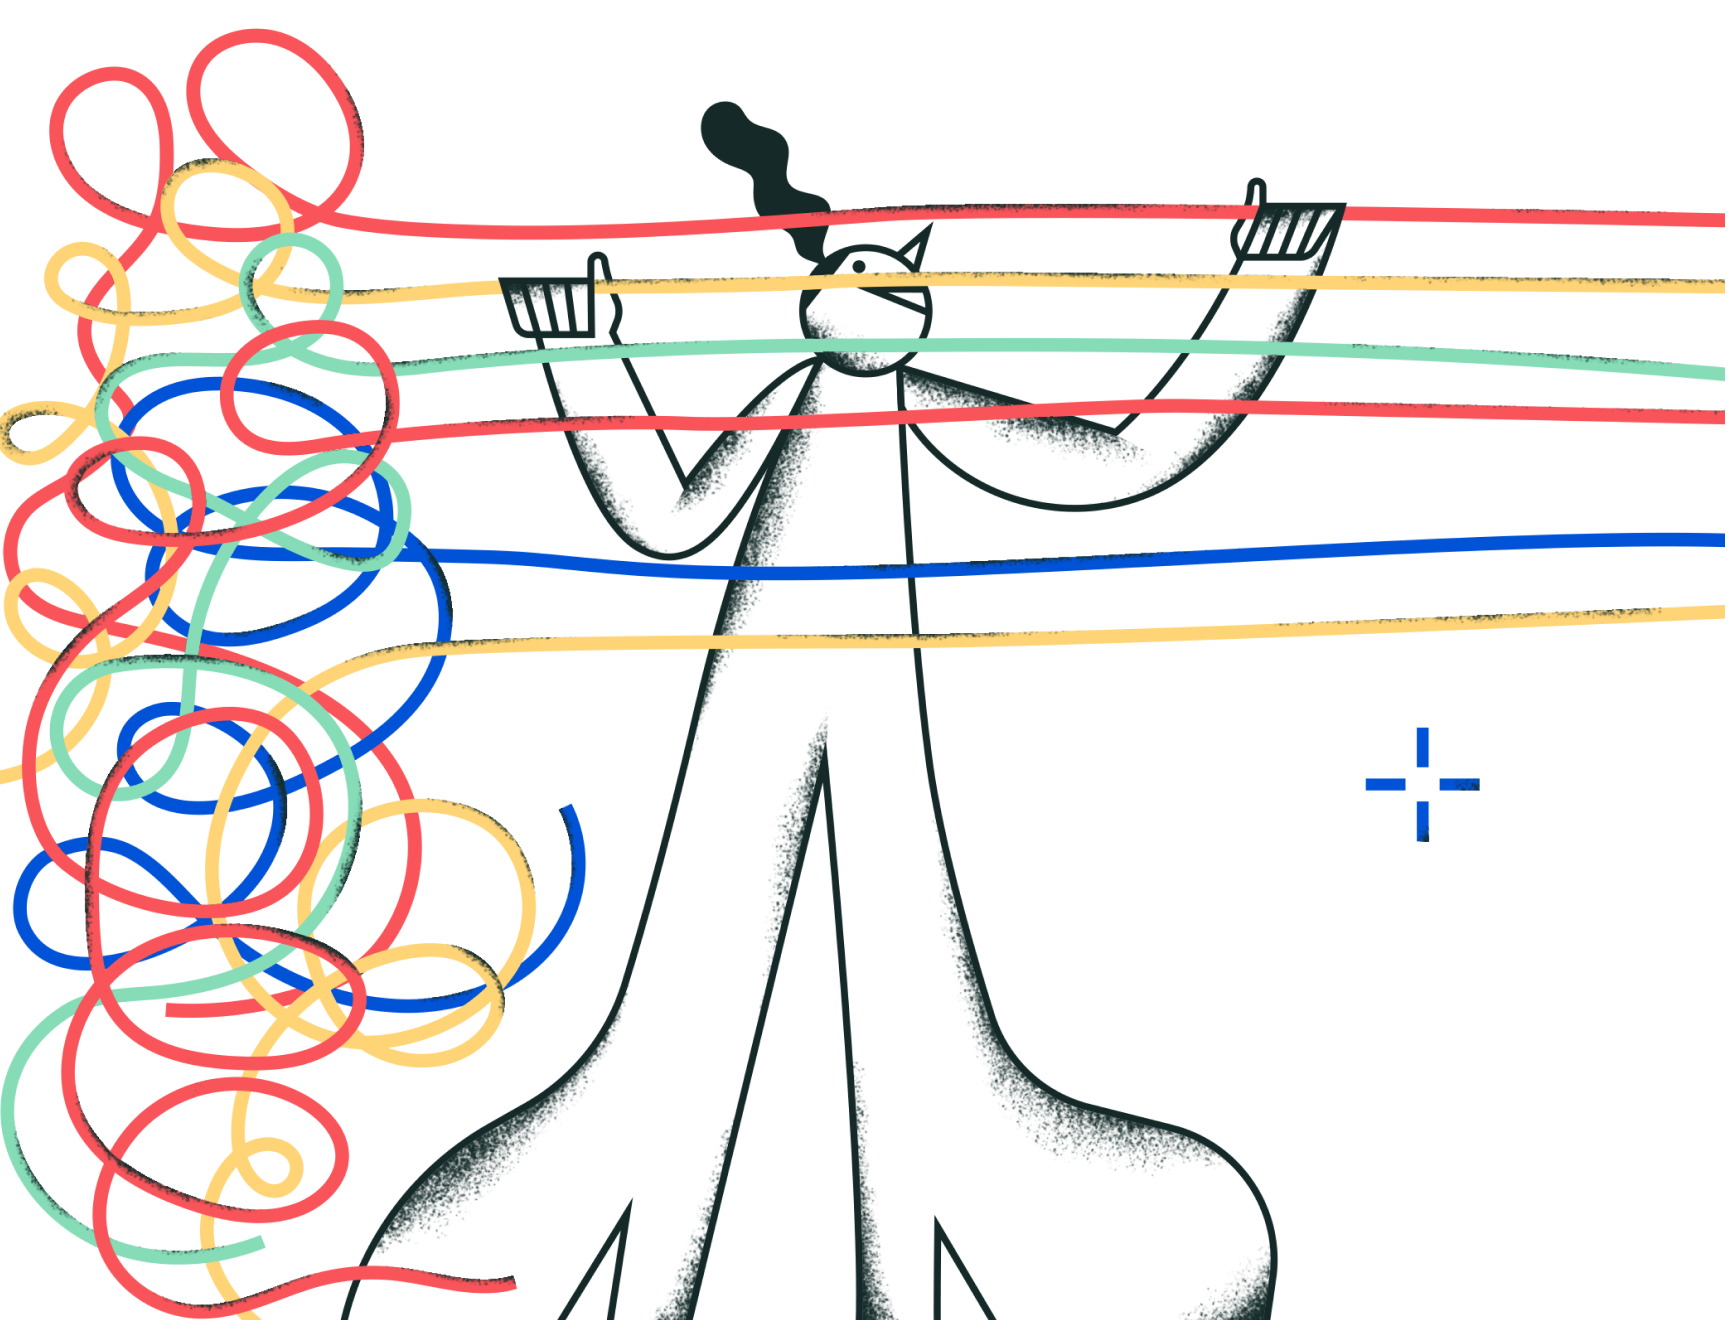
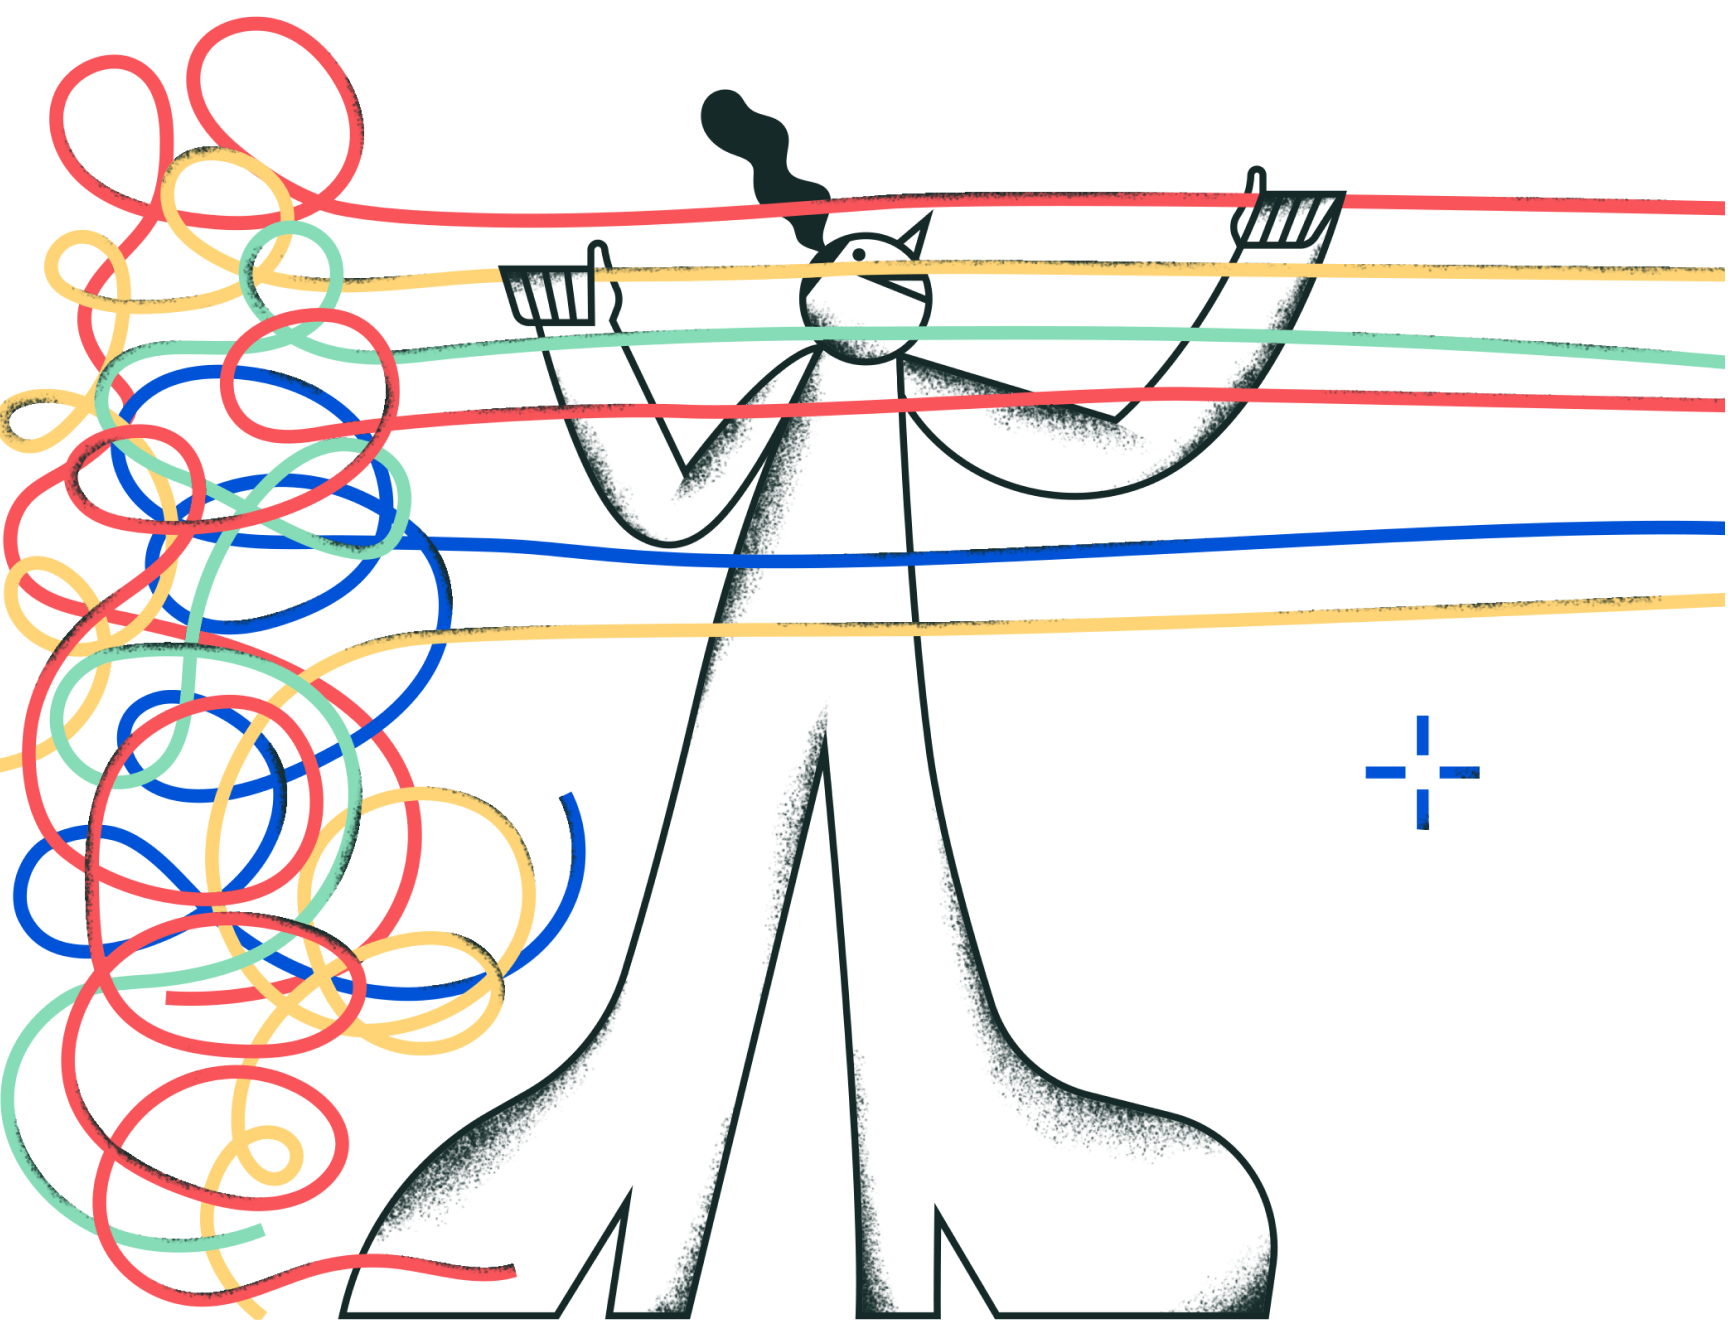
feat: COM-2721 1920| Image fix

diff --git a/components/core-values/DetailValue/DetailValue.styles.js b/components/core-values/DetailValue/DetailValue.styles.js
@@ -35,7 +35,7 @@ const base = ({ breakpoints: { desktop, tablet, mobile }, colors }) => css`
 
   ${desktop.l} {
     .picture-container {
-      padding-top: calc(1320 / 1728 * 100%);
+      padding-top: 440px;
     }
   }
 
